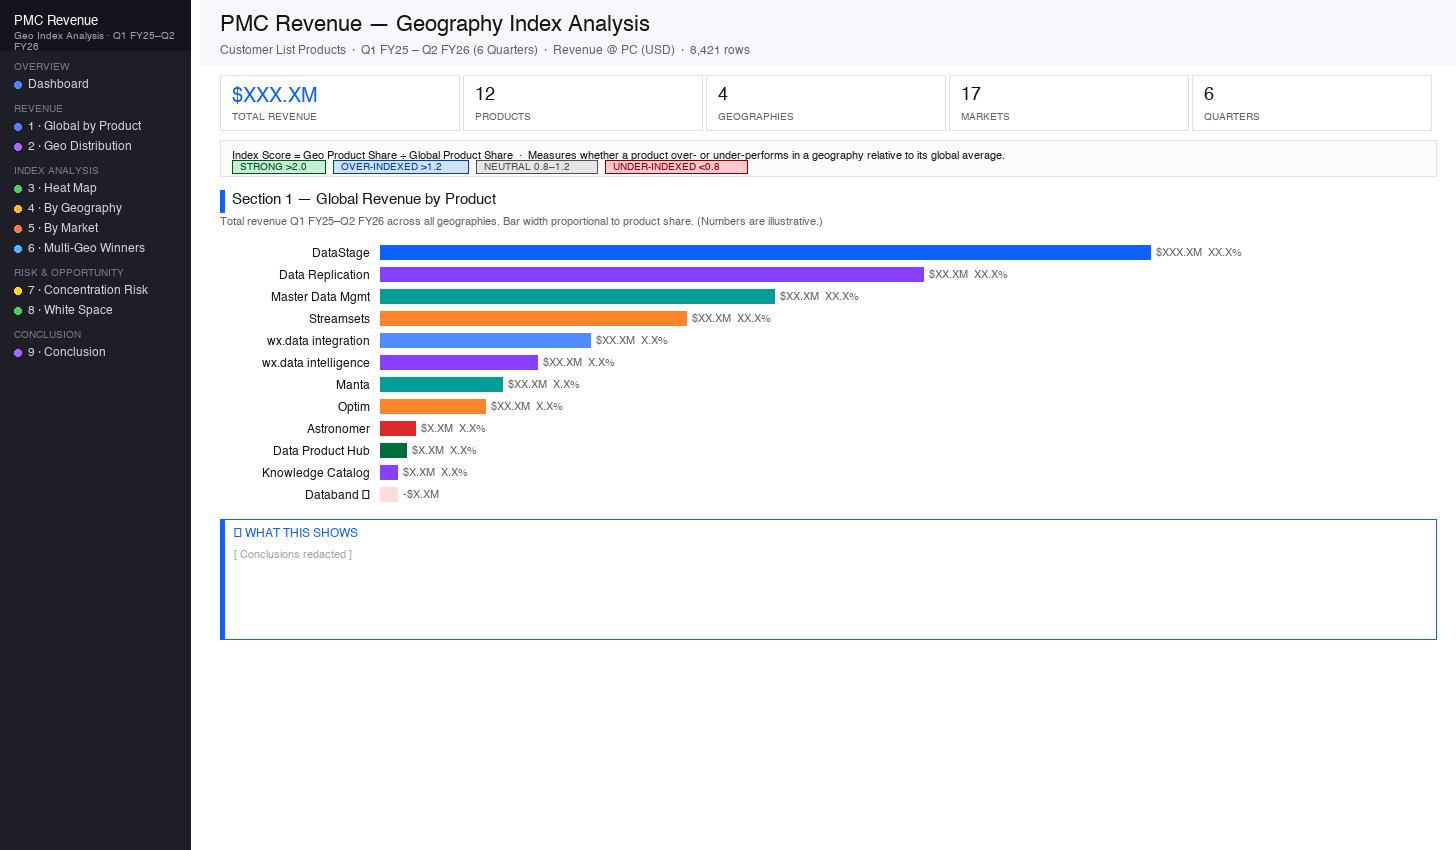
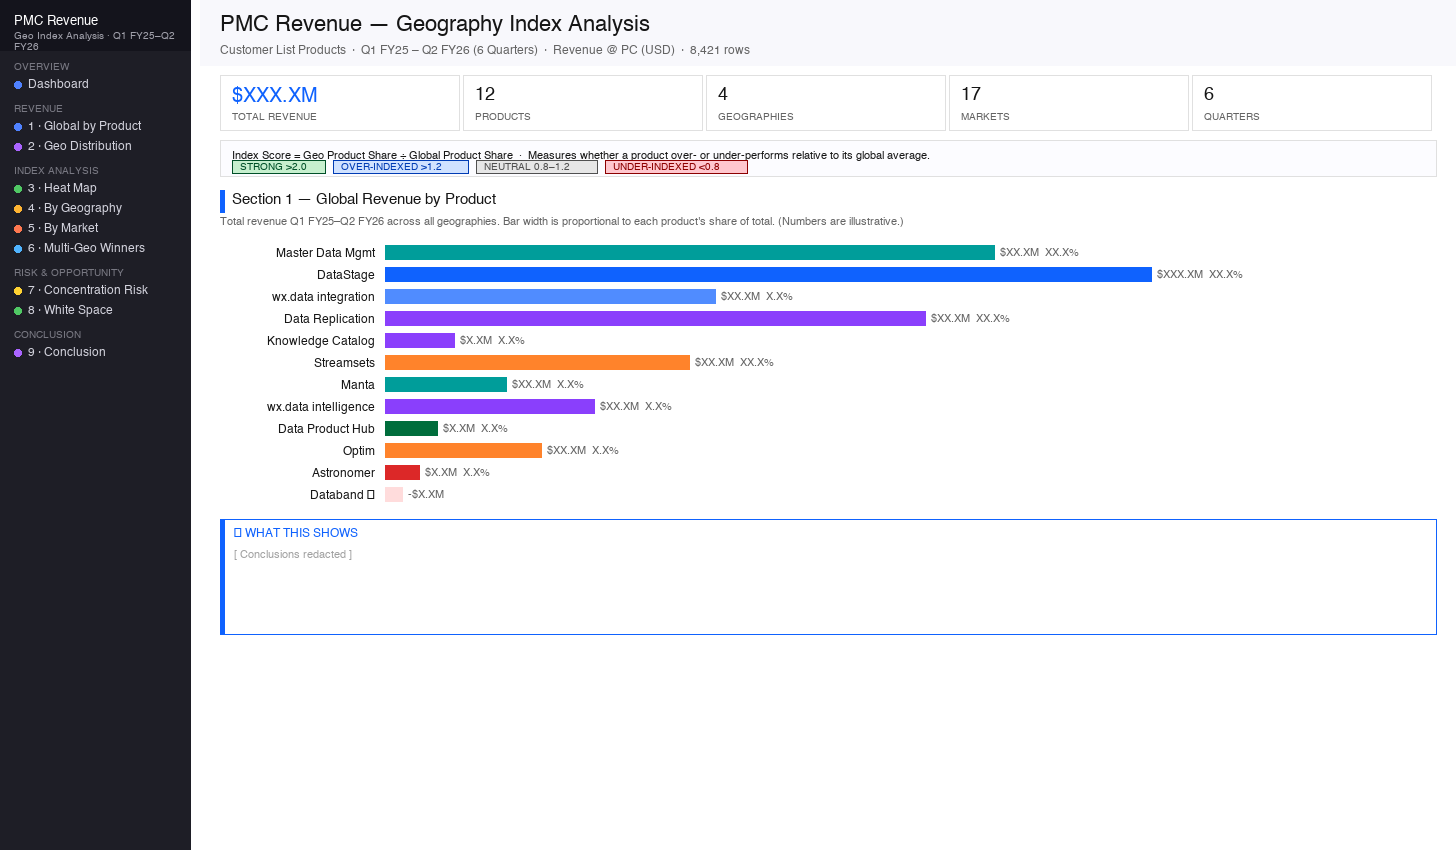
Reshuffle product order and vary heatmap colors in dashboard mockups

Changed region(s): [[0.1854, 0.2447, 0.8345, 0.6118], [0.5563, 0.1529, 0.6181, 0.2141]]

diff --git a/index.html b/index.html
@@ -446,7 +446,7 @@ footer span{color:#a8a8a8}
     <div class="slideshow" id="ss3">
       <div class="slideshow-track" id="ss3-track">
         <img src="assets/mockup_dashboard_1.png?v=1" alt="Global Revenue by Product — bar chart view">
-        <img src="assets/mockup_dashboard_2.png?v=1" alt="Product × Geography Heat Map">
+        <img src="assets/mockup_dashboard_2.png?v=2" alt="Product × Geography Heat Map">
       </div>
       <button class="slideshow-btn prev" onclick="ssMove('ss3',-1)">&#8249;</button>
       <button class="slideshow-btn next" onclick="ssMove('ss3',1)">&#8250;</button>